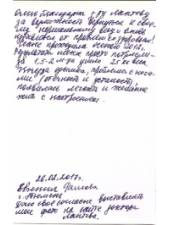
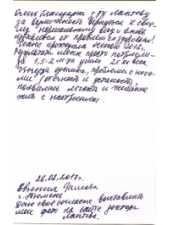
optimizate image reviews1

diff --git a/app/PhotoReviewItem.php b/app/PhotoReviewItem.php
@@ -68,7 +68,7 @@ class PhotoReviewItem extends Model
                         $i->resize(round($height * $w / $h, 0), $height);
                         $i->resizeCanvas($width, $height, 'center', false, 'ffffff');
                     }
-                    $i->save(public_path('uploads') . '/images/thumbnail/' . $filename, 70);
+                    $i->save(public_path('uploads') . '/images/thumbnail/' . $filename, 50, 'jpeg');
                     copy($file, public_path('uploads/images/'.$filename) );
                 }
                 catch (\Exception $exception) {
